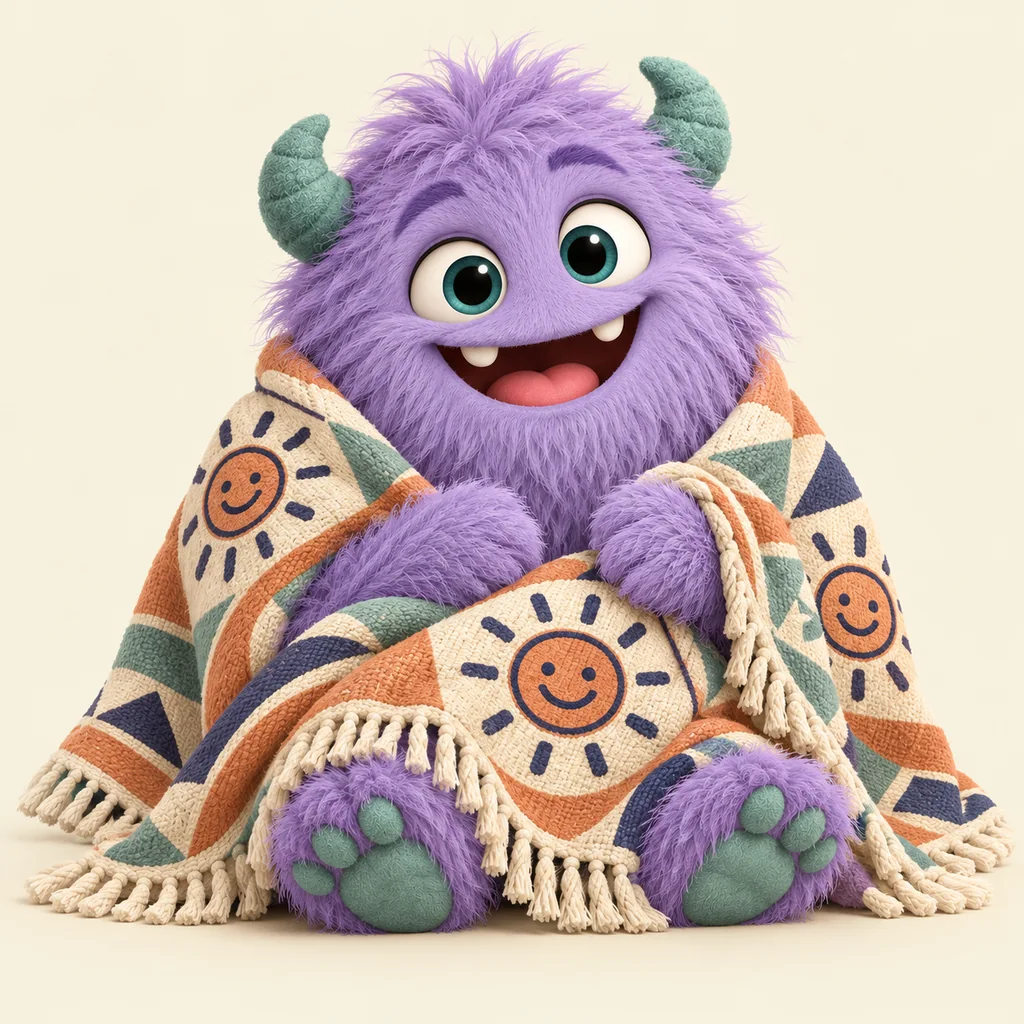
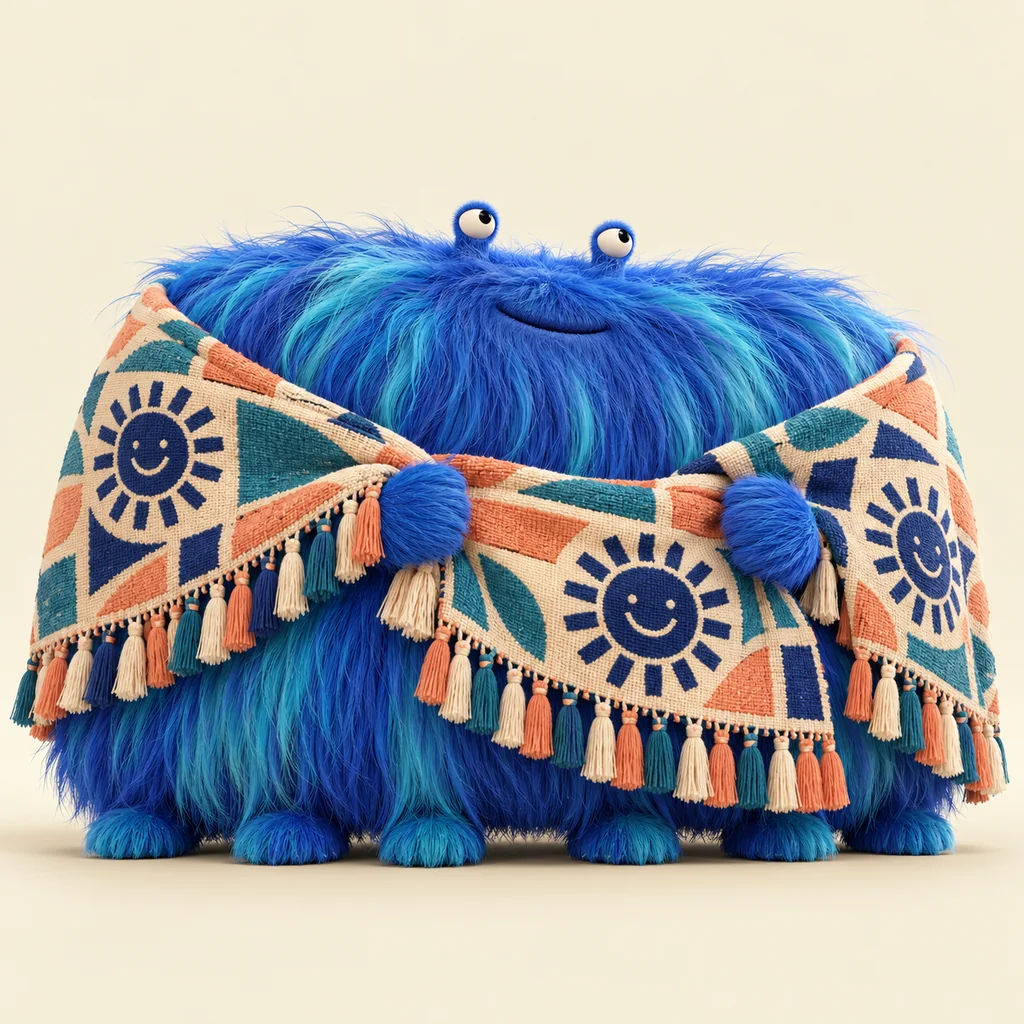
Give each Happy Club monster a distinct silhouette and personality

diff --git a/docs/gohappyclub-monster-images.md b/docs/gohappyclub-monster-images.md
@@ -1,39 +1,43 @@
 # Happy Club monster product images
 
-Created with the built-in image-generation tool. These are still illustrations in a 3D animated-film style.
+Created with the built-in image-generation tool. These are still illustrations in a 3D animated style. Revision 2 gives every product a distinct silhouette, anatomy, facial design, fur texture, and personality.
 
-The four product pages use `image` front matter, which also supplies the home, collection, and related-product cards and page-specific social sharing images. Each optimized WebP is 1024 × 1024; dimensions are included in front matter to reserve layout space. The existing eager hero and lazy card loading behavior is retained.
+The four product pages supply `image` front matter, which also populates the home, collection, related-product cards, and social sharing metadata. Each optimized WebP is 1024 × 1024. Existing eager hero and lazy card loading behavior is retained.
 
 ## Shared generation prompt
 
-Use case: product-mockup. Asset type: square hero image for Happy Club promotional merchandise website, matching a coordinated family of four images. Create one polished, original, delightful furry monster in a high-end 3D animated-film visual style, tactile fluffy fur, big expressive eyes, rounded friendly silhouette, joyful personality. Warm eggshell cream seamless studio backdrop (#f4f1de), subtle contact shadow, soft diffuse studio lighting. Rich colorful character with merchandise accents of burnt peach #e07a5f, muted teal #81b29a, apricot #f2cc8f and twilight indigo #3d405b. Square composition; full body and entire merchandise visible, centered, safe 12% margins, clearly readable at small thumbnail size. Product is prominent and convincing, real fabric texture, no scene clutter. Simple embroidered or printed smiling-sun emblem only, no words or letters, no watermark, no existing franchise characters. This is a single still illustration with an animated-film look.
+Use case: product-mockup. Asset: one square hero illustration for Happy Club promotional products. Art direction: an eccentric original designer-toy monster, colorful shaggy tactile fur, sophisticated playful 3D animation character design, quirky and endearing rather than conventionally cute. Strong instantly recognizable silhouette with deliberately unusual anatomy. Entire character and product fully in frame with 8% margins, product prominent and physically convincing. Warm eggshell studio floor and background #f4f1de, soft contact shadow, beautiful diffuse lighting, saturated playful colors. Keep merchandise material realistic, seams and texture visible. Merchandise has a simple indigo smiling-sun emblem, no lettering or other text. Single image, single character, no collage. No watermark, no franchise characters, no generic round horned two-eyed baby monster. Still illustration with an animated-film appearance.
 
 ## Product prompts
 
 ### custom-hats
 
-A happy round turquoise shaggy monster with little peach horns and two big eyes, wearing a prominent burnt-peach cotton baseball cap with a curved brim and an indigo embroidered smiling-sun emblem on the front. One paw tips the brim in a playful greeting. Feet visible. Hat must be a well-formed wearable cap, not fur.
+A tall wonky LIME GREEN cyclops shaped like a slightly curved cucumber, one giant expressive eye under a thick shaggy indigo eyebrow, enormous floppy horizontal ears with hot pink inner fur, a tiny asymmetrical sideways grin showing one square tooth, skinny long arms, tiny broad feet. Absolutely NO horns. Wearing an oversized burnt-peach cotton baseball cap angled jauntily, smiling-sun embroidery on front. One three-fingered hand tips its brim and the other rests on its hip. Confident mischievous streetwear personality. Tall narrow silhouette and long ears are the defining design.
 
 Asset: `sites/gohappyclub.com/assets/monsters/custom-hats-monster.webp`
 
+Alt text: A lime-green cyclops with oversized sideways ears tipping a peach baseball cap.
+
 ### custom-tote-bags
 
-A cheerful coral-pink furry monster with rounded apricot horns, walking in a playful pose while carrying a large natural cream canvas tote bag by its two handles in one paw, beside the body and facing camera. Tote is fully visible and prominent, shows sturdy woven canvas, stitched seams, gusset and large indigo screen-printed smiling-sun emblem. Bag is held naturally by the handles. Other paw waves.
+A hot MAGENTA furry monster shaped like a wide inverted triangle, narrow short legs, FOUR long flexible arms emerging in two pairs, THREE small black glossy eyes in an asymmetrical horizontal row, one curious eyebrow tuft, and an off-center broad smiling mouth. Short dense plush fur with cobalt spots. No ears and NO horns. Two hands hold open the handles of a large sturdy natural canvas tote bag in front of its lower body so the entire bag and its indigo printed smiling-sun emblem are clearly visible; another hand waves overhead and the fourth gestures proudly toward the bag. The anatomy is clean and deliberate, exactly four arms. Enthusiastic helpful shopkeeper personality.
 
 Asset: `sites/gohappyclub.com/assets/monsters/custom-tote-bags-monster.webp`
 
+Alt text: A magenta triangular monster with three eyes and four arms showing off a canvas tote bag.
+
 ### custom-blankets
 
-A delighted lilac-purple furry monster with small teal horns, sitting cozily with a large woven throw blanket draped around its shoulders and across its lap. Face, furry hands and feet visible. Blanket takes up much of lower body, features a tasteful bold burnt-peach, cream, teal and indigo woven geometric smiling-sun pattern and visible short cream tassel fringe. Clearly a separate fabric blanket, not fur or a garment. Warm friendly cozy expression.
+A very WIDE LOW cobalt-blue furry loaf monster, like a friendly shaggy ottoman with a lopsided flat-topped rectangular body, extremely long silky blue and turquoise fringe fur, TWO tiny round eyes on short little stalks peeping above the fur, a small contented closed smile low on its face, SIX short rounded little feet visible along the lower edge. No horns, no human-shaped torso. Two small fuzzy mitten hands clutch a colorful woven throw around its broad shoulders. The throw is prominently draped across the front with beautiful cream, burnt-peach, teal and indigo geometric smiling-sun patterns and a tassel fringe. The creature looks sleepy and wonderfully cozy, its whole wide silhouette unmistakably different from a typical upright monster. Full blanket visible and distinct from fur.
 
 Asset: `sites/gohappyclub.com/assets/monsters/custom-blankets-monster.webp`
 
+Alt text: A wide cobalt-blue shaggy monster with tiny eye stalks cuddling a patterned woven blanket.
+
 ### custom-socks
 
-A joyful apricot-orange furry monster with small lilac horns, sitting with both feet extended toward camera and happily showing off a matching pair of prominent indigo-and-teal knit crew socks. Socks have burnt-peach cuffs, heels and toes, small cream knit-in smiling-sun emblems on the ankles, convincing rib knit texture. Both socks are clearly pulled onto its feet, paws point proudly toward socks. Entire character in frame.
+A tiny TANGERINE spherical pom-pom body perched on TWO absurdly LONG skinny legs, two very long upright feathered rabbit-like ears with purple tips, tiny close-set eyes with heavy happy eyelids and a huge sideways crescent grin, a small pair of spindly arms. No horns. Its personality is an eccentric exuberant dancer. One knee raised outward in an energetic goofy dance pose, the other planted; both long feet and calves wear a PAIR of prominent indigo-and-teal ribbed knit crew socks with peach heels, cuffs and toes, cream knitted smiling-sun emblems. Socks are real wearable fabric visibly on the feet, not floating. The legs and socks occupy the lower half of the composition, so product is clear. Character has a small head-body and very tall leggy silhouette.
 
 Asset: `sites/gohappyclub.com/assets/monsters/custom-socks-monster.webp`
 
-The hat image was generated first. For the other three images, it was supplied as a style reference with this additional instruction:
-
-Input image: style reference only. Match its appealing fur rendering, studio backdrop, lighting, smiling-sun merchandise emblem and overall production quality; create a DIFFERENT character and featured product as specified below. Do not put a hat on this character.
+Alt text: A tangerine pom-pom monster with tall feathered ears and long legs wearing patterned knit socks.

diff --git a/sites/gohappyclub.com/products/custom-blankets.md b/sites/gohappyclub.com/products/custom-blankets.md
@@ -10,7 +10,7 @@ image:
   path: /assets/monsters/custom-blankets-monster.webp
   width: 1024
   height: 1024
-  alt: "A lilac furry monster wrapped in a colorful woven blanket with smiling suns and tassel fringe."
+  alt: "A wide cobalt-blue shaggy monster with tiny eye stalks cuddling a patterned woven blanket."
 order: 3
 highlights:
   - "Woven-in designs that can't fade or peel"

diff --git a/sites/gohappyclub.com/products/custom-socks.md b/sites/gohappyclub.com/products/custom-socks.md
@@ -10,7 +10,7 @@ image:
   path: /assets/monsters/custom-socks-monster.webp
   width: 1024
   height: 1024
-  alt: "An orange furry monster showing off indigo and teal knit socks with smiling sun designs."
+  alt: "A tangerine pom-pom monster with tall feathered ears and long legs wearing patterned knit socks."
 order: 4
 highlights:
   - "Knit-in designs stay bright wash after wash"

diff --git a/sites/gohappyclub.com/products/custom-tote-bags.md b/sites/gohappyclub.com/products/custom-tote-bags.md
@@ -10,7 +10,7 @@ image:
   path: /assets/monsters/custom-tote-bags-monster.webp
   width: 1024
   height: 1024
-  alt: "A coral furry monster carrying a canvas tote bag printed with a smiling sun."
+  alt: "A magenta triangular monster with three eyes and four arms showing off a canvas tote bag."
 order: 2
 highlights:
   - "Cotton, canvas and gusseted styles"

diff --git a/sites/gohappyclub.com/products/custom-hats.md b/sites/gohappyclub.com/products/custom-hats.md
@@ -10,7 +10,7 @@ image:
   path: /assets/monsters/custom-hats-monster.webp
   width: 1024
   height: 1024
-  alt: "A cheerful teal furry monster wearing a peach cap with an embroidered smiling sun."
+  alt: "A lime-green cyclops with oversized sideways ears tipping a peach baseball cap."
 order: 1
 highlights:
   - "Embroidered, printed or patch logos"
